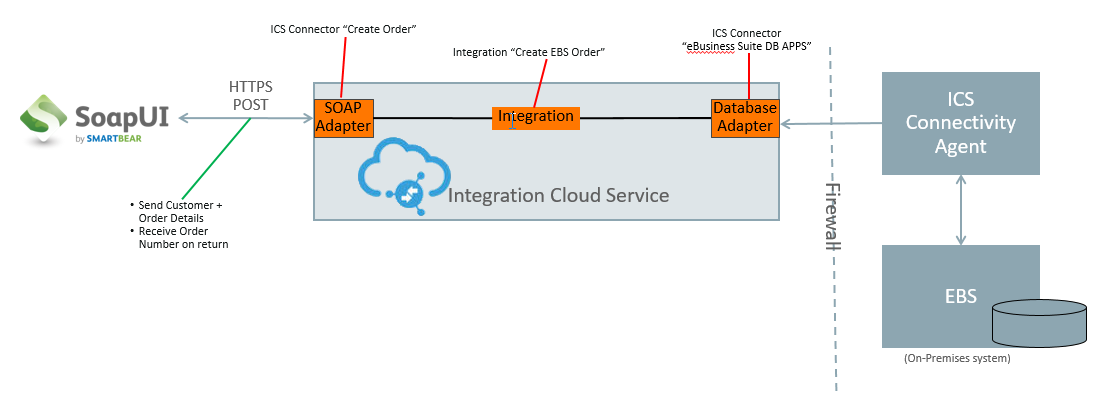
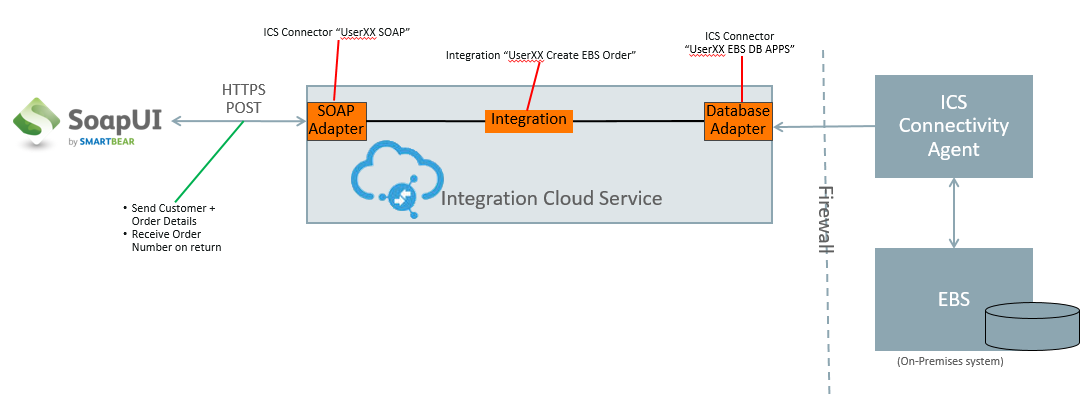
Updated initial integration picture

diff --git a/deep-dive-ics/ics300.md b/deep-dive-ics/ics300.md
@@ -14,8 +14,8 @@ In this lab, you develop an integration in ICS using a database adapter to query
 
 ## Objectives
 
-- Learn how to create ICS Application Adapter Connections
-- Learn how to create an ICS Orchestration using the ICS Adapter
+- Learn how to create ICS SOAP and Database Adapter Connections
+- Learn how to create an ICS Orchestration using the ICS Adapters
 - Learn how to test the ICS integration using SoapUI
 
 ## Required Artifacts
